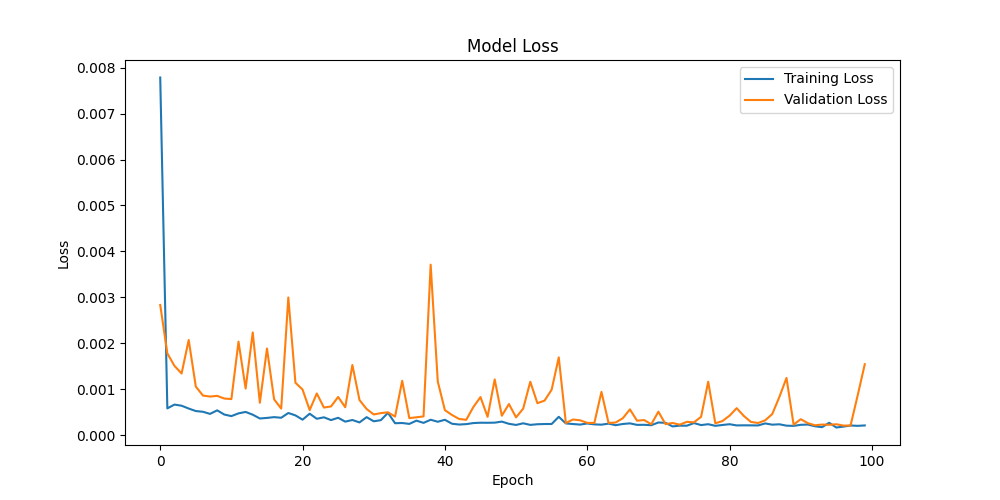
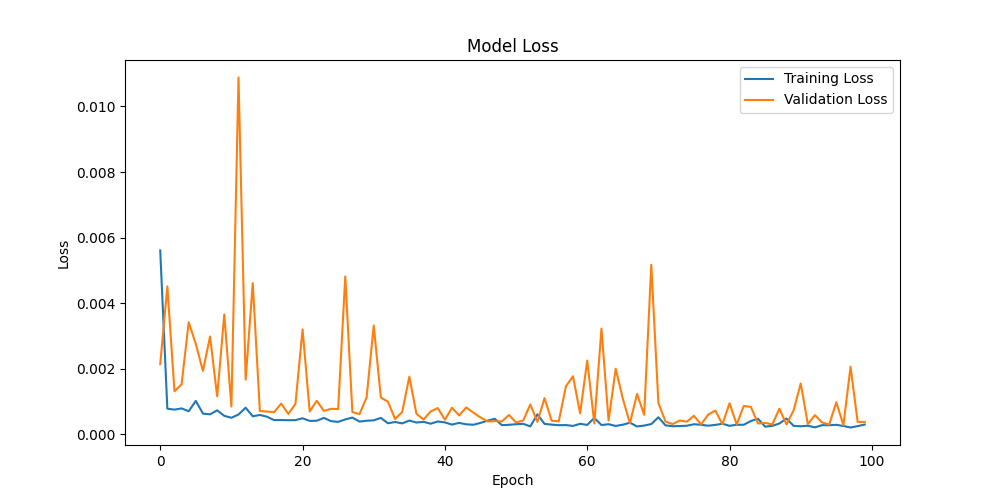
Changes to parameters

diff --git a/main.py b/main.py
@@ -7,8 +7,8 @@ from tensorflow import keras
 import matplotlib.dates as mdates
 
 
-#Downloading the S&P 500 from date 01-01-2010 to 01-01-2024
-spy = yf.download('SPY', start='2010-01-01', end='2024-01-01')
+#Downloading the S&P 500 from date 01-01-2020 to 01-01-2024
+spy = yf.download('SPY', start='2014-01-01', end='2024-01-01')
 
 #Train/Validation split
 training_data = spy['Adj Close']['2010-01-01':'2021-12-31']
@@ -47,11 +47,11 @@ X_validation = np.reshape(X_validation, (X_validation.shape[0], X_validation.sha
 #The model is simple, it consists of 3 LSTM layers, seperated by dropouts + one fully connected layer for output
 model = keras.Sequential([
     # LSTM layers
-    keras.layers.LSTM(units=150, return_sequences=True),
+    keras.layers.LSTM(units=200, return_sequences=True),
     keras.layers.Dropout(0.1),
-    keras.layers.LSTM(units=150, return_sequences=True),
+    keras.layers.LSTM(units=200, return_sequences=True),
     keras.layers.Dropout(0.1),
-    keras.layers.LSTM(units=150, return_sequences=False),
+    keras.layers.LSTM(units=200, return_sequences=False),
     keras.layers.Dropout(0.1),
 
     # Dense layer
@@ -72,7 +72,7 @@ plt.title('Model Loss')
 plt.xlabel('Epoch')
 plt.ylabel('Loss')
 plt.legend()
-plt.savefig('figs/Loss.png')
+plt.savefig('/home/msensis/Documents/Projects/ML/PredictingStockMarcketValues/PredictingStockMarketValues/figs/Loss.png')
 plt.show()
 plt.clf()
 
@@ -107,5 +107,5 @@ plt.title('SPY Stock Price Prediction')
 plt.xlabel('Time')
 plt.ylabel('SPY Stock Price')
 plt.legend()
-plt.savefig('figs/StockPricePrediction.png')
+plt.savefig('/home/msensis/Documents/Projects/ML/PredictingStockMarcketValues/PredictingStockMarketValues/figs/StockPricePrediction.png')
 plt.show()
